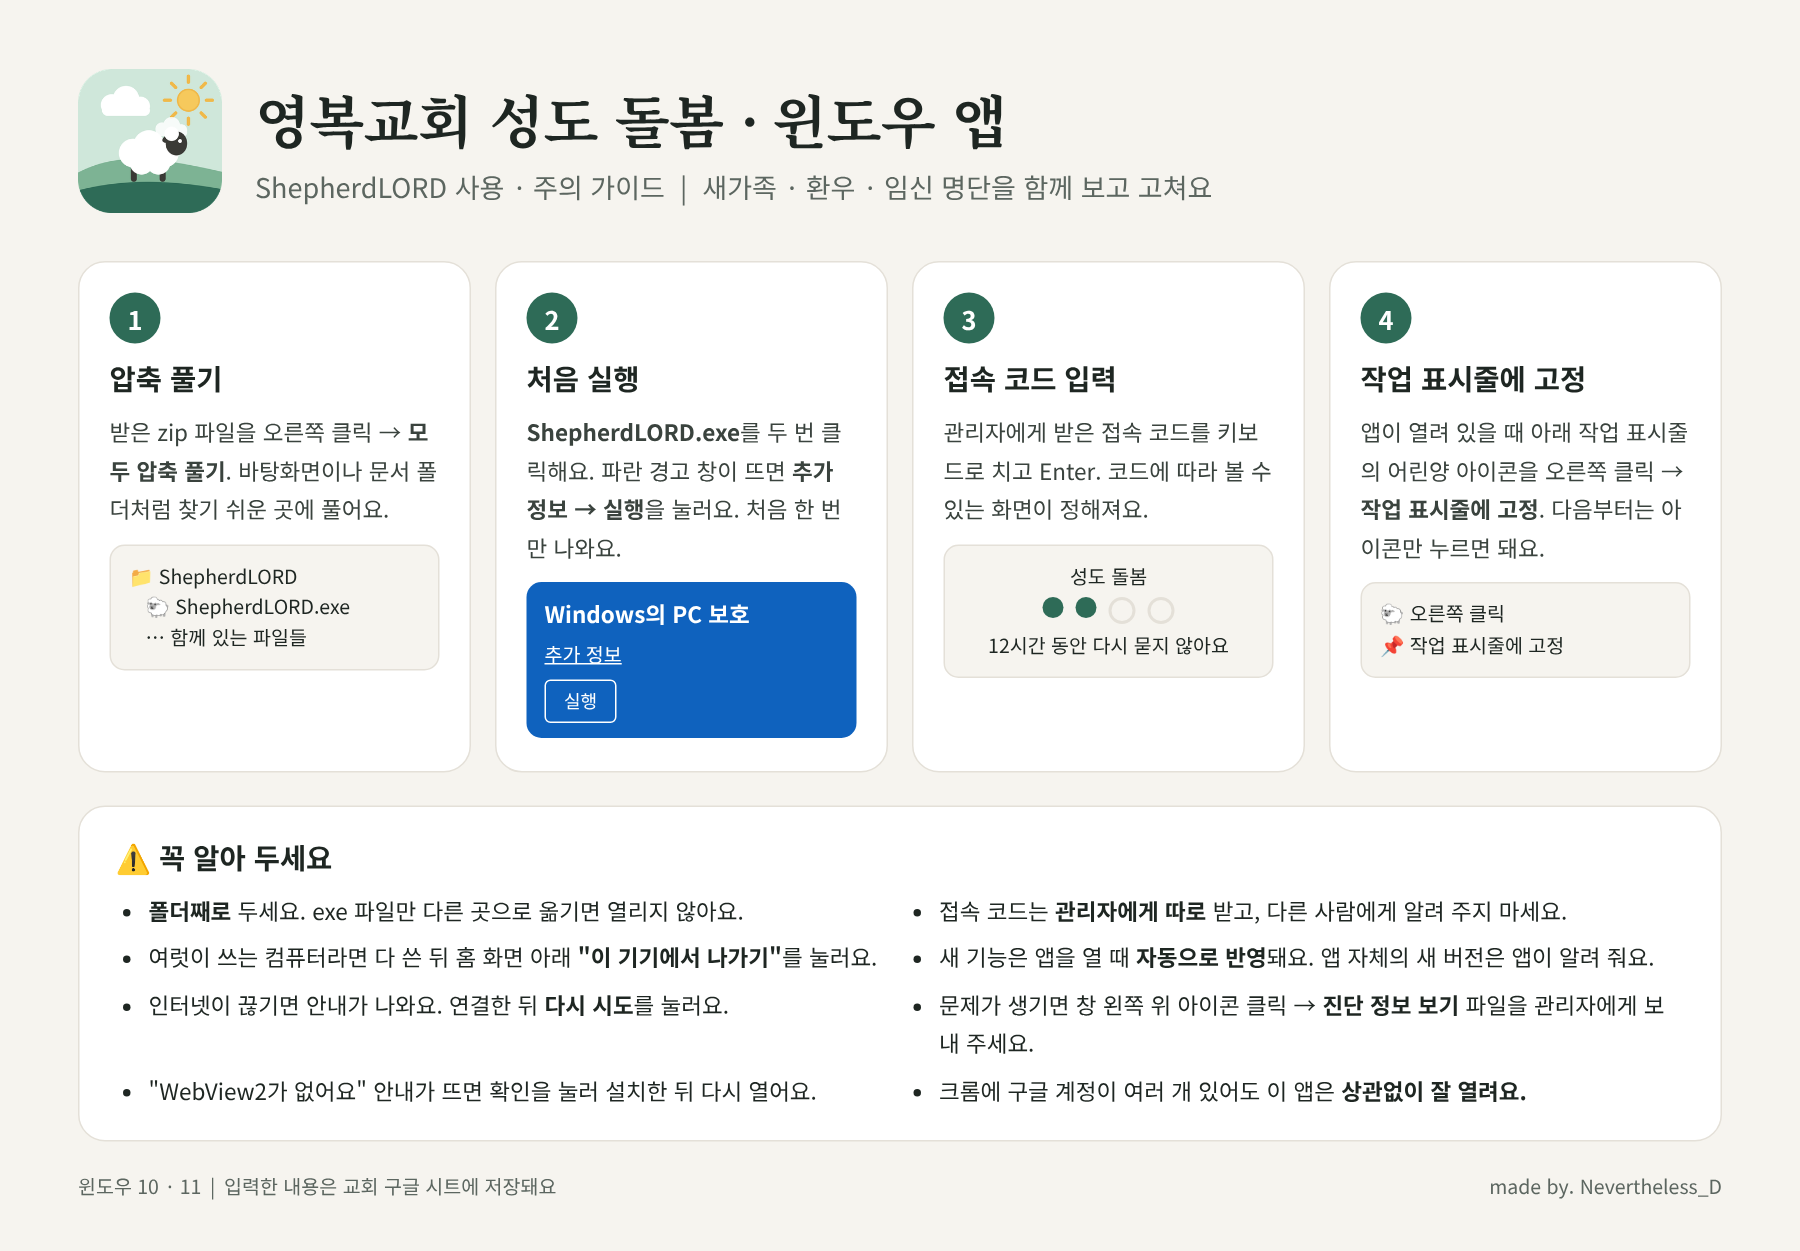
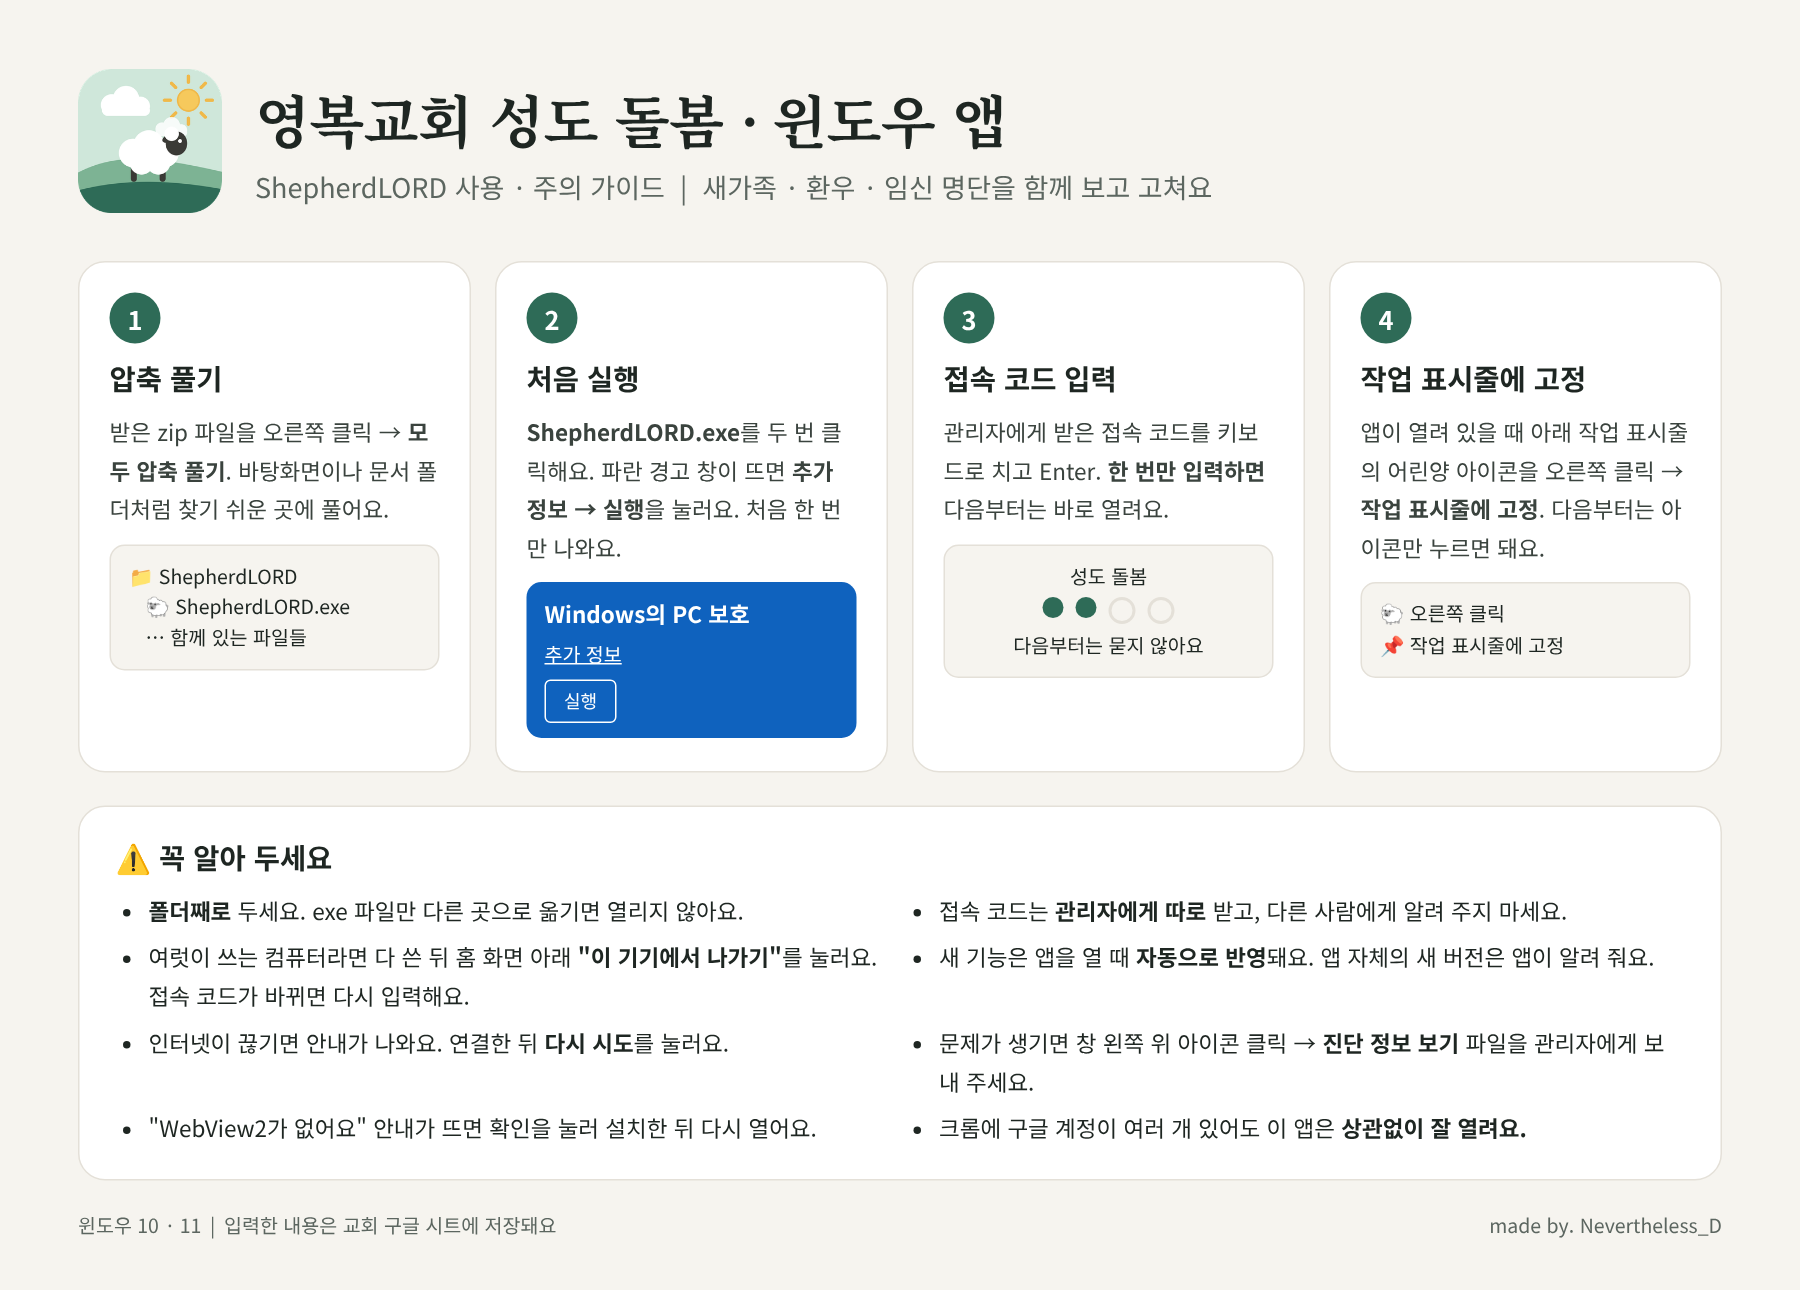
로그인 유지(한 번 입력하면 계속), 가이드 문구 갱신
Claude-Session: https://claude.ai/code/session_01W9yUZDVKckq2bdc1LJgZaM

diff --git a/windows/guide/guide.html b/windows/guide/guide.html
@@ -30,14 +30,14 @@ h1{margin:0;font-family:'Noto Serif CJK KR',serif;font-size:38px;font-weight:700
 <div class="steps">
   <div class="step"><div class="n">1</div><h2>압축 풀기</h2><p>받은 zip 파일을 오른쪽 클릭 → <b>모두 압축 풀기</b>. 바탕화면이나 문서 폴더처럼 찾기 쉬운 곳에 풀어요.</p><div class="mock">📁 ShepherdLORD<br>&nbsp;&nbsp;&nbsp;🐑 ShepherdLORD.exe<br>&nbsp;&nbsp;&nbsp;… 함께 있는 파일들</div></div>
   <div class="step"><div class="n">2</div><h2>처음 실행</h2><p><b>ShepherdLORD.exe</b>를 두 번 클릭해요. 파란 경고 창이 뜨면 <b>추가 정보 → 실행</b>을 눌러요. 처음 한 번만 나와요.</p><div class="mock blue"><b>Windows의 PC 보호</b><span class="link">추가 정보</span><br><span class="btn">실행</span></div></div>
-  <div class="step"><div class="n">3</div><h2>접속 코드 입력</h2><p>관리자에게 받은 접속 코드를 키보드로 치고 Enter. 코드에 따라 볼 수 있는 화면이 정해져요.</p><div class="mock" style="text-align:center">성도 돌봄<div class="code"><span></span><span></span><span class="e"></span><span class="e"></span></div>12시간 동안 다시 묻지 않아요</div></div>
+  <div class="step"><div class="n">3</div><h2>접속 코드 입력</h2><p>관리자에게 받은 접속 코드를 키보드로 치고 Enter. <b>한 번만 입력하면</b> 다음부터는 바로 열려요.</p><div class="mock" style="text-align:center">성도 돌봄<div class="code"><span></span><span></span><span class="e"></span><span class="e"></span></div>다음부터는 묻지 않아요</div></div>
   <div class="step"><div class="n">4</div><h2>작업 표시줄에 고정</h2><p>앱이 열려 있을 때 아래 작업 표시줄의 어린양 아이콘을 오른쪽 클릭 → <b>작업 표시줄에 고정</b>. 다음부터는 아이콘만 누르면 돼요.</p><div class="mock">🐑 오른쪽 클릭<br>📌 작업 표시줄에 고정</div></div>
 </div>
 
 <div class="warn"><h2>⚠ 꼭 알아 두세요</h2><ul>
   <li><b>폴더째로</b> 두세요. exe 파일만 다른 곳으로 옮기면 열리지 않아요.</li>
   <li>접속 코드는 <b>관리자에게 따로</b> 받고, 다른 사람에게 알려 주지 마세요.</li>
-  <li>여럿이 쓰는 컴퓨터라면 다 쓴 뒤 홈 화면 아래 <b>"이 기기에서 나가기"</b>를 눌러요.</li>
+  <li>여럿이 쓰는 컴퓨터라면 다 쓴 뒤 홈 화면 아래 <b>"이 기기에서 나가기"</b>를 눌러요. 접속 코드가 바뀌면 다시 입력해요.</li>
   <li>새 기능은 앱을 열 때 <b>자동으로 반영</b>돼요. 앱 자체의 새 버전은 앱이 알려 줘요.</li>
   <li>인터넷이 끊기면 안내가 나와요. 연결한 뒤 <b>다시 시도</b>를 눌러요.</li>
   <li>문제가 생기면 창 왼쪽 위 아이콘 클릭 → <b>진단 정보 보기</b> 파일을 관리자에게 보내 주세요.</li>

diff --git a/webapp/Index.html b/webapp/Index.html
@@ -292,7 +292,7 @@ function handleError(e, quiet) {
   var msg = (e && e.message) || String(e || '');
   if (msg.indexOf('NEED_CODE') >= 0) {
     S.token = null; S.roles = []; S.data = null; store('yb_token', null);
-    S.loginMsg = '코드 유효 시간이 지났어요. 다시 입력해 주세요.';
+    S.loginMsg = '로그인이 풀렸어요. 접속 코드가 바뀌었거나 오래 쓰지 않았을 수 있어요. 다시 입력해 주세요.';
     go('login');
     return;
   }
@@ -391,7 +391,7 @@ R.login = function () {
       '<div class="pin" aria-hidden="true">' + pins + '</div>' +
       '<div class="err" role="alert">' + esc(S.loginMsg) + '</div>' +
       '<div class="keys">' + keys + '</div>' +
-      '<p class="muted" style="margin:8px 0 0;font-size:12px;text-align:center;line-height:1.6">5번 틀리면 10분 동안 입력이 잠겨요.<br>입력한 코드는 이 기기에서 12시간 동안 유지돼요.</p>' +
+      '<p class="muted" style="margin:8px 0 0;font-size:12px;text-align:center;line-height:1.6">한 번 입력하면 이 기기에서는 계속 로그인돼요.<br>여럿이 쓰는 기기라면 다 쓴 뒤 홈의 "이 기기에서 나가기"를 눌러 주세요.<br>5번 틀리면 10분 동안 입력이 잠겨요.</p>' +
       footer() +
     '</div>';
 };

diff --git a/webapp/WEBAPP_NOTES.md b/webapp/WEBAPP_NOTES.md
@@ -44,7 +44,8 @@
 - 환우·임신: 마스터 코드로만 보기·수정. (2026-11-05 환우 코드 폐지)
 - 코드 없이는 어떤 데이터도 보내지 않음. 누가 접속했는지는 알 수 없으므로 변경기록에는 "어떤 코드로 수정했는지"와 시간을 남김.
 - 코드는 스프레드시트 "설정" 시트에 저장, 서버에서 확인. 화면 코드에 넣지 않음.
-- 5번 틀리면 10분 잠금. 코드 인증은 그 기기에서 12시간 유지.
+- 5번 틀리면 10분 잠금. 코드 인증은 그 기기에서 계속 유지(180일, 쓸 때마다 다시 180일로 늘어남).
+  로그인 정보에는 코드를 그대로 두지 않고 기기별로 바꾼 값(SHA-256)만 둠. 설정 탭에서 코드를 바꾸면 그 코드로 들어온 기기는 그 권한을 잃음(모든 기기 로그아웃은 코드 바꾸기로).
 - 사용 가이드 이미지에 코드 숫자를 적지 않음.
 - 초기 코드는 사용자에게 받음(대화 기록 참고). 이 파일에는 적지 않음.
 
@@ -75,6 +76,7 @@
   날짜 칸은 엑셀 날짜 코드로 읽어 시간대 때문에 하루 밀리지 않게 함. 파일 안 중복(이름+연생)도 걸러냄. 한 번에 500줄까지.
 - 2026-11-05 코드 정리: 0191 마스터(전체), 1004 새가족 입력·수정·보기, 7979 새가족 보기(유지). 8275 환우 코드 삭제.
   서버가 설정 탭의 "환우 코드" 줄을 자동으로 지우고, 예전 환우 코드로 받은 접속도 바로 막음(schema 4).
+- 2026-11-10 로그인 유지: 한 번 입력하면 계속 로그인(180일 · 사용 시 연장). 예전 12시간 로그인은 만료 때까지 그대로.
 - 2026-11-03 마스터 코드 추가. 코드는 4자리 이상만 받음. 시트가 0으로 시작하는 코드를 숫자로 바꿔도 맞게 비교.
 
 ## 파일 구조
